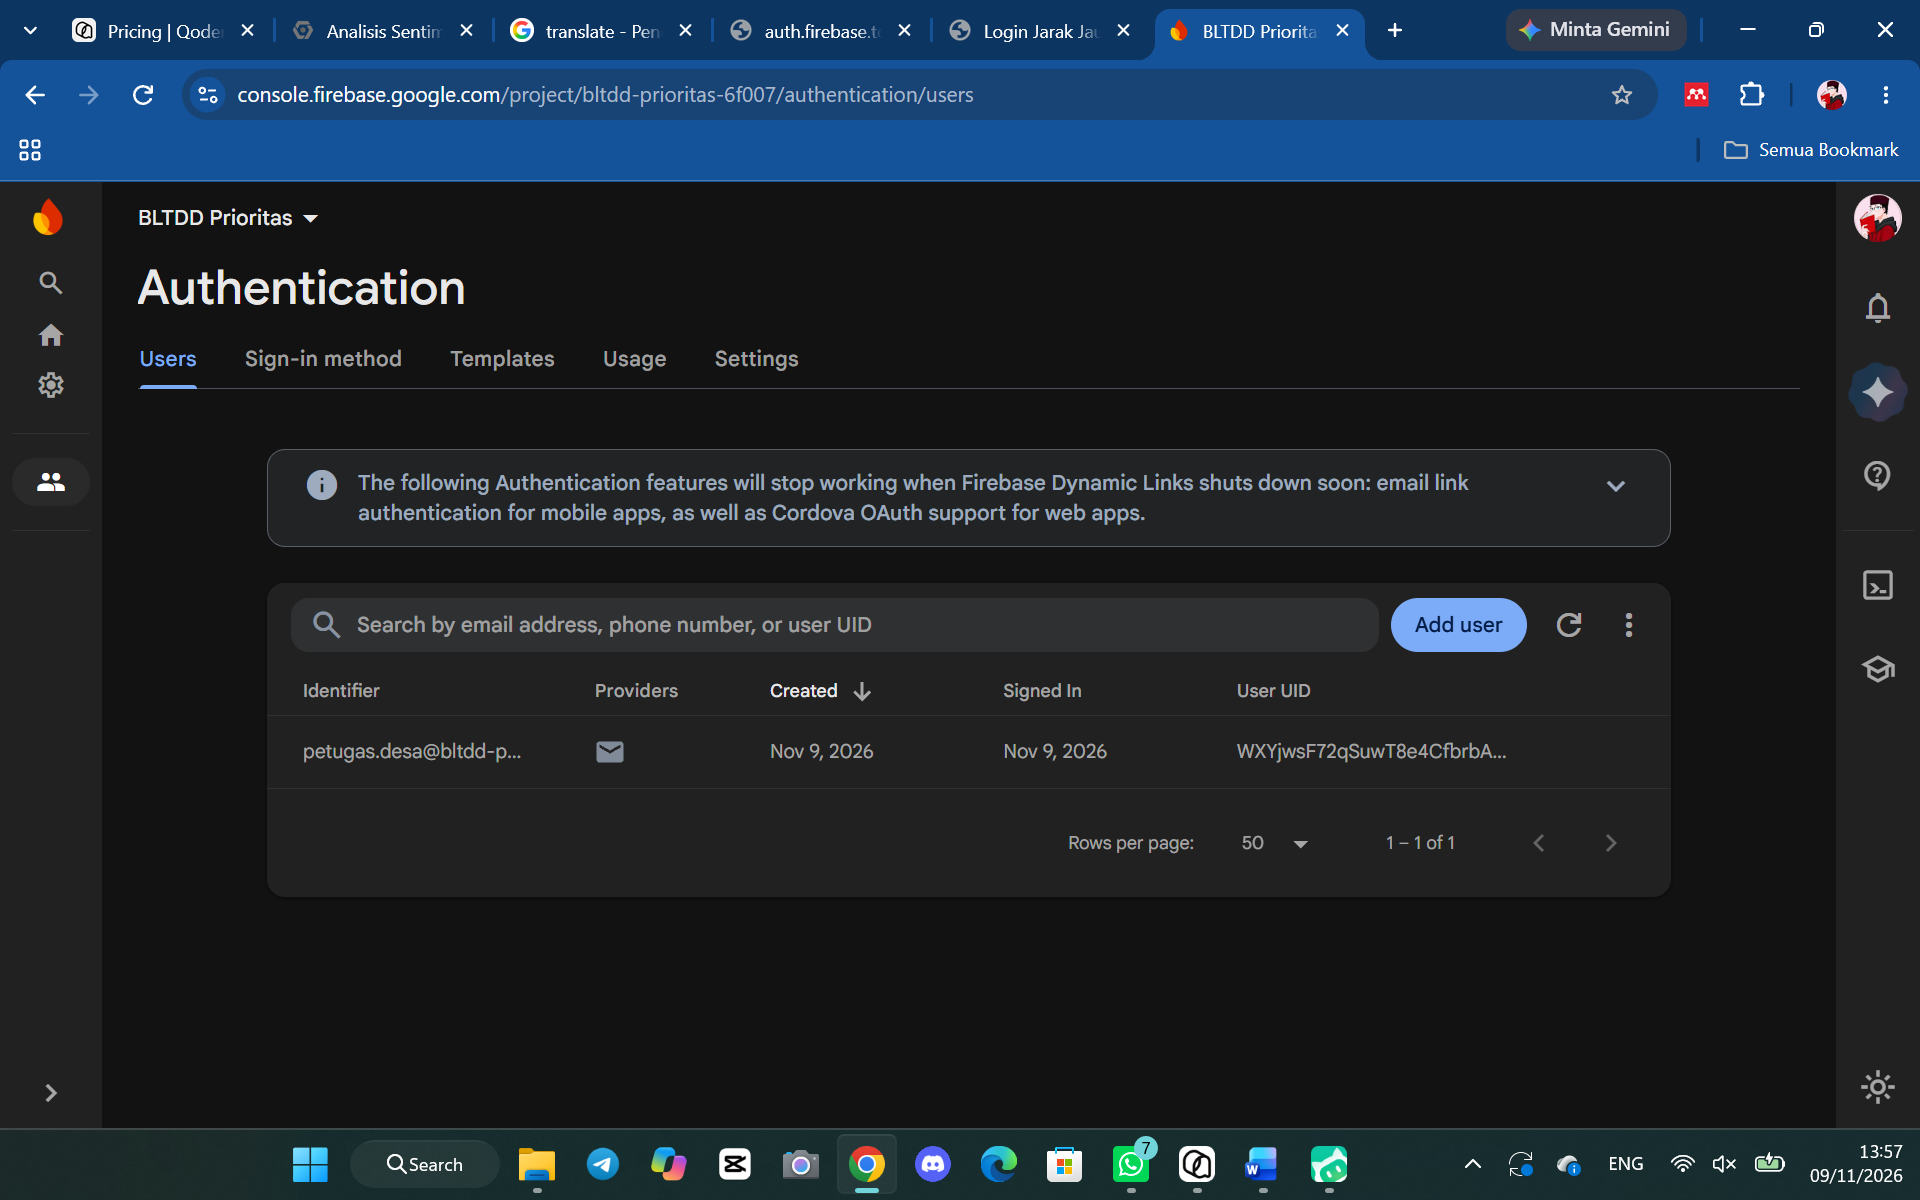
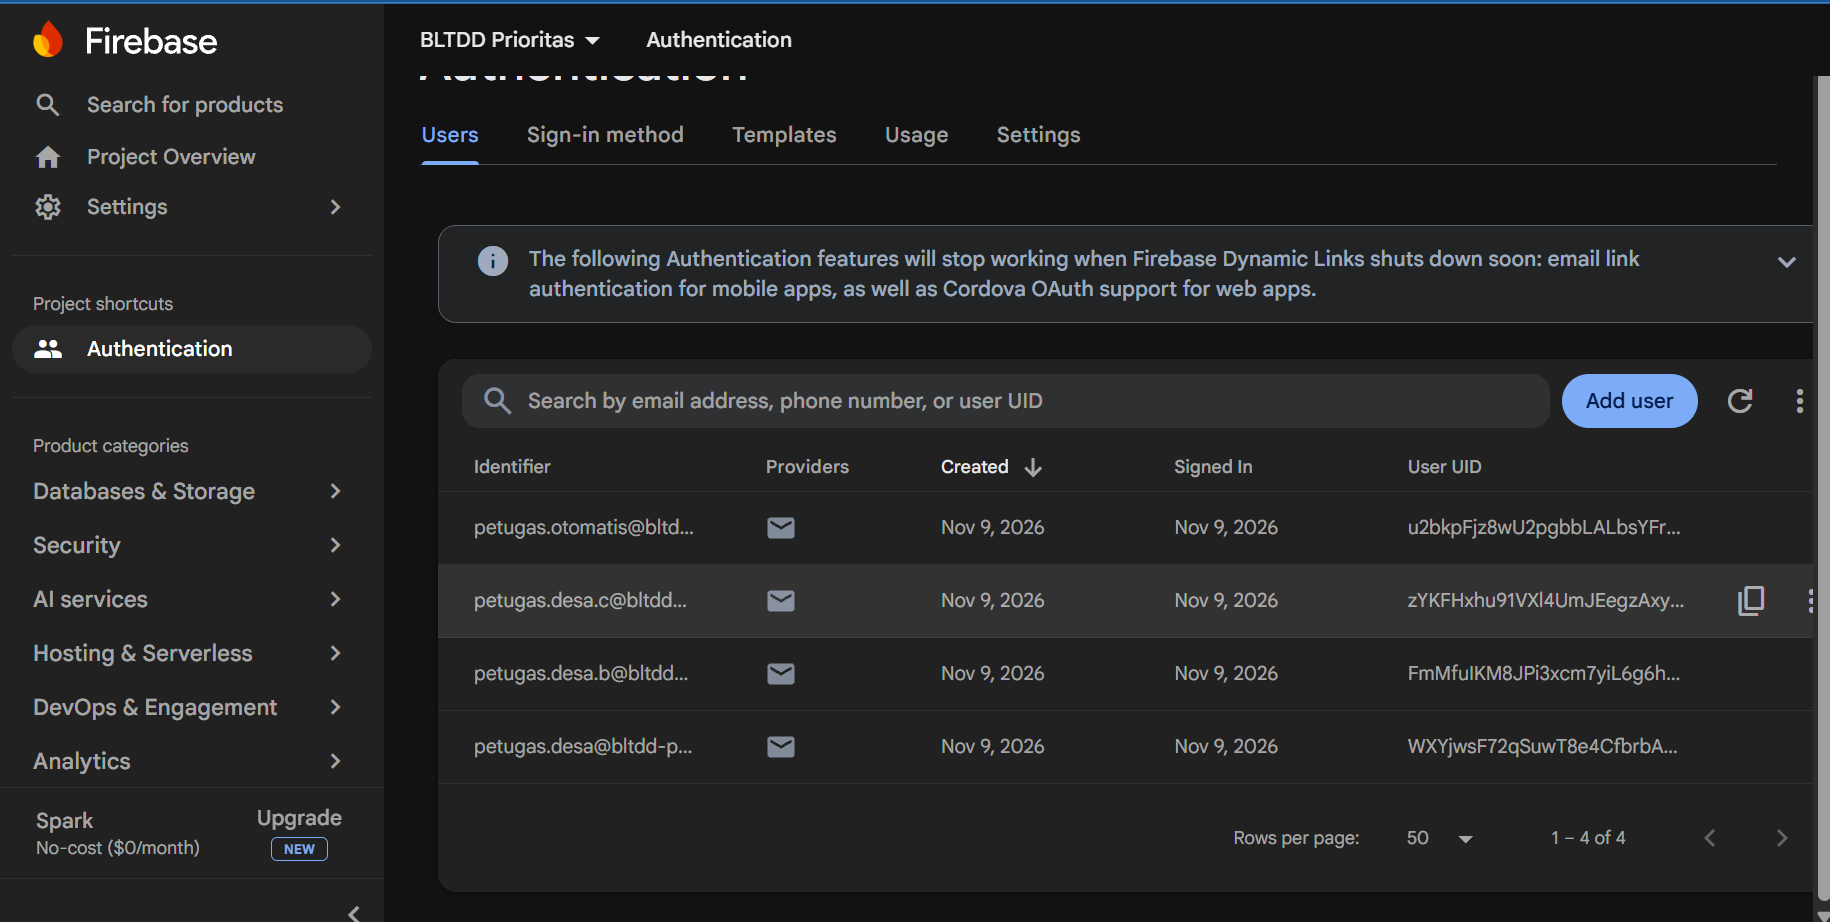
docs: ganti tangkapan Console Users dengan empat akun terkini tanpa chrome browser

diff --git a/docs/screenshots/README.md b/docs/screenshots/README.md
@@ -38,7 +38,7 @@ Bukti mode Firebase nyata (project `bltdd-prioritas-6f007`, paket Spark, Authent
 
 | File | Kasus (matriks A2 di docs/PENGUJIAN.md) |
 |---|---|
-| `19-firebase-console-users.png` | FB-0 — daftar pengguna di Firebase Console: akun petugas hasil pendaftaran aplikasi |
+| `19-firebase-console-users.png` | FB-0 — daftar pengguna di Firebase Console (9 November 2026): empat akun hasil pendaftaran aplikasi, termasuk `petugas.otomatis@…` dari FB-8 |
 | `20-firebase-halaman-masuk.png` | FB-1 — halaman masuk mode Firebase (chip "Firebase", gaya baru tanpa keterangan akun demo) |
 | `21-firebase-daftar-baru-beranda.png` | FB-2 — pendaftaran akun baru langsung ke Beranda dengan SnackBar |
 | `22-firebase-refresh-sesi-bertahan.png` | FB-3 — sesi bertahan setelah muat ulang halaman (pemulihan `authStateChanges()`) |
@@ -50,7 +50,7 @@ Bukti mode Firebase nyata (project `bltdd-prioritas-6f007`, paket Spark, Authent
 | `31-firebase-lupa-sandi-dialog.png` | FB-9 — dialog lupa kata sandi dengan email terisi |
 | `32-firebase-lupa-sandi-terkirim.png` | FB-9 — SnackBar "Tautan atur ulang kata sandi telah dikirim…" hasil `sendPasswordResetEmail` sungguhan |
 
-`19` adalah tangkapan layar Firebase Console (Authentication → Users) dari browser; `20`–`26` dan `30`–`32` diambil dari build Web dengan konfigurasi Firebase nyata melalui `--dart-define`. Gambar `20`–`26` dan `30`–`32` berasal dari pengulangan alur setelah halaman ditata ulang memakai akun `petugas.desa.c@bltdd-prioritas.test`; akun `petugas.otomatis@bltdd-prioritas.test` pada FB-8 dibuat otomatis oleh aplikasi.
+`19` adalah tangkapan layar Firebase Console (Authentication → Users) pada 9 November 2026, dipotong dari sesi browser pemilik project sehingga menampilkan seluruh empat akun yang tersimpan (`petugas.desa@…`, `petugas.desa.b@…`, `petugas.desa.c@…`, dan `petugas.otomatis@…`) beserta label paket Spark; `20`–`26` dan `30`–`32` diambil dari build Web dengan konfigurasi Firebase nyata melalui `--dart-define`. Gambar `20`–`26` dan `30`–`32` berasal dari pengulangan alur setelah halaman ditata ulang memakai akun `petugas.desa.c@bltdd-prioritas.test`; akun `petugas.otomatis@bltdd-prioritas.test` pada FB-8 dibuat otomatis oleh aplikasi.
 
 Cara menghasilkan ulang:
 

diff --git a/docs/PENGUJIAN.md b/docs/PENGUJIAN.md
@@ -96,7 +96,7 @@ Setelah project `bltdd-prioritas-6f007` dibuat (paket Spark gratis) dan Authenti
 | FB-8 | Masuk dengan email belum terdaftar | Mode masuk, email baru `petugas.otomatis@bltdd-prioritas.test` + kata sandi | `signInWithEmailAndPassword` gagal (`invalid-credential`) lalu `createUserWithEmailAndPassword` membuat akun; SnackBar "…akun dibuat otomatis…" dan langsung di Beranda | **Lulus** | Widget test `Membuat akun otomatis saat masuk dengan email baru`; `30-firebase-akun-otomatis-beranda.png` |
 | FB-9 | Lupa kata sandi | Isi email, tekan "Lupa kata sandi?", tekan Kirim | `sendPasswordResetEmail` sukses; SnackBar "Tautan atur ulang kata sandi telah dikirim ke …" | **Lulus** | `31-firebase-lupa-sandi-dialog.png`; `32-firebase-lupa-sandi-terkirim.png` |
 
-Catatan A2: isi Beranda pada mode Firebase menampilkan indikator pemuatan karena Firestore belum dibuat — sumber data calon masih mode demo; pembuatan Firestore adalah lingkup minggu 10. Kasus FB-1 dan FB-3 memakai akun `petugas.desa.c@…` hasil pendaftaran FB-2; FB-8 membuat akun `petugas.otomatis@…` langsung dari halaman masuk tanpa mode daftar, membuktikan pembuatan akun otomatis di server nyata. Tangkapan layar Console (`19-firebase-console-users.png`) berasal dari sesi minggu 9 dan menampilkan akun yang terdaftar saat itu; akun `petugas.desa.c@…` dan `petugas.otomatis@…` dari pengulangan terbaru juga tersimpan di Authentication yang sama.
+Catatan A2: isi Beranda pada mode Firebase menampilkan indikator pemuatan karena Firestore belum dibuat — sumber data calon masih mode demo; pembuatan Firestore adalah lingkup minggu 10. Kasus FB-1 dan FB-3 memakai akun `petugas.desa.c@…` hasil pendaftaran FB-2; FB-8 membuat akun `petugas.otomatis@…` langsung dari halaman masuk tanpa mode daftar, membuktikan pembuatan akun otomatis di server nyata. Tangkapan layar Console (`19-firebase-console-users.png`) diambil pada 9 November 2026 langsung dari Authentication → Users sehingga menampilkan seluruh empat akun yang tersimpan di project, termasuk `petugas.desa.c@…` dan `petugas.otomatis@…` dari pengulangan terbaru.
 
 ### B. Data calon (CRUD dan validasi)
 

diff --git a/README.md b/README.md
@@ -105,7 +105,7 @@ Screenshot diambil dari **build Web yang benar-benar dijalankan** (Flutter Web +
 | Daftar ditolak: email terpakai | ![Email terpakai](docs/screenshots/runtime/10-daftar-email-terpakai.png) | — |
 | Masuk berhasil | ![Masuk berhasil](docs/screenshots/runtime/12-login-berhasil-beranda.png) | — |
 | Akun baru langsung di Beranda | ![Daftar berhasil](docs/screenshots/runtime/13-daftar-baru-beranda.png) | — |
-| Pengguna terdaftar di Firebase Console | ![Console Users](docs/screenshots/runtime/19-firebase-console-users.png) | — |
+| Empat akun terdaftar di Firebase Console | ![Console Users](docs/screenshots/runtime/19-firebase-console-users.png) | — |
 | Mode Firebase: daftar akun baru | ![Firebase daftar](docs/screenshots/runtime/21-firebase-daftar-baru-beranda.png) | — |
 | Mode Firebase: sesi bertahan setelah refresh | ![Firebase sesi](docs/screenshots/runtime/22-firebase-refresh-sesi-bertahan.png) | — |
 | Akun otomatis saat masuk (mode demo) | ![Akun otomatis](docs/screenshots/runtime/27-akun-otomatis-beranda.png) | — |
